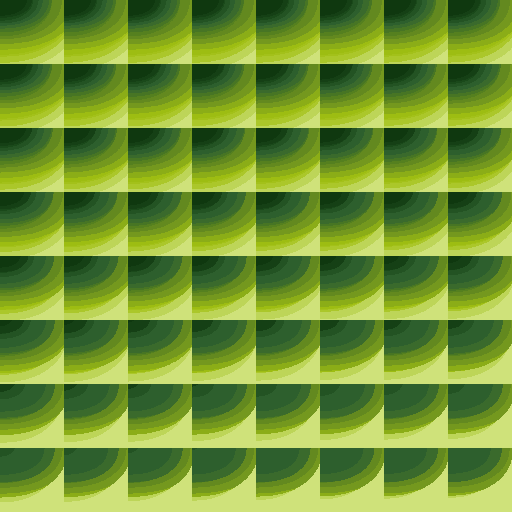
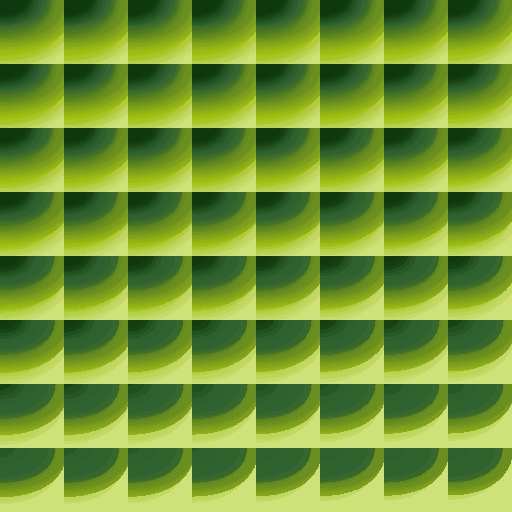
64-shade green palette and 3x LCD pixel density
Widen the palette from 16 to 64 Game Boy greens and triple the dot grid so the
LCD reads finer and smoother, still snapping to the menu's pea-green ramp.

- tools/gen_menu_palette_lut.py: COLORS 16 -> 64. The eight gb_ui.gd green
  tokens are resampled in Oklab to 64 shades (dark -> light), a near-continuous
  monochrome ramp; endpoints stay exactly #0f380f and #cfe27a. Swatch relaid to
  four rows of sixteen.
- shaders/lut_512.png / palette_512.png: regenerated to the 64 greens.
- main.tscn: World SubViewport 360x360 -> 1080x1080, so grid_size=3 yields a
  360x360 dot grid (3x the old 120x120) while each dot keeps room for the hard
  lattice. On the console path the LCD texture scales into the glass rect, so
  this shows as finer dots at device resolution.
- scripts/gb_ui.gd: draw the interface in a 360-tall design space and scale the
  whole LCD up to the buffer (a clean 3x at 1080), so the HUD and menu stay
  proportional and crisp instead of shrinking to a third.
- scripts/player.gd: scale the crosshair, respawn hint and context prompt by the
  same buffer/design ratio.
- scripts/shell.gd: _fit_bare falls back to fit-to-view when the buffer is larger
  than the desktop/web window, so the 1080 LCD is shown whole instead of clipped.
- shaders/dither_lut.gdshader, README: comments updated for 64 greens and 1080.

Claude-Session: https://claude.ai/code/session_01Vpc8b1eE6bPeWcjygWgRUF

diff --git a/tools/gen_menu_palette_lut.py b/tools/gen_menu_palette_lut.py
@@ -5,8 +5,8 @@ Run from the project root:  python3 tools/gen_menu_palette_lut.py
 
 Overwrites:
   shaders/lut_512.png      the 64x64x64 cube the dither shader snaps through, so every colour in
-                           the frame maps to the nearest of the 16 menu greens.
-  shaders/palette_512.png  a documentation-only swatch of the 16 shades (nothing samples it).
+                           the frame maps to the nearest of the 64 menu greens.
+  shaders/palette_512.png  a documentation-only swatch of the 64 shades (nothing samples it).
 
 Why these greens: the LCD interface (scripts/gb_ui.gd) is hand-tokened in the classic DMG
 "pea-green" ramp -- INK #0f380f at the dark end up to the lit-capsule highlight #cfe27a. The world
@@ -16,10 +16,10 @@ palette straight from the eight distinct green design tokens in gb_ui.gd, so the
 the menu are finally one screen.
 
 The eight tokens are only a spine: we walk them in Oklab (perceptually even steps, not raw RGB) and
-resample to 16 shades, dark -> light. The endpoints land exactly on the menu's darkest and lightest
-greens; the ramp passes through every token in between. The heavy work -- nearest-colour mapping of
-the whole RGB cube in Oklab -- is reused from gen_palette_lut.build_lut; this file only supplies the
-16-colour palette.
+resample to 64 shades, dark -> light -- a near-continuous monochrome green ramp. The endpoints land
+exactly on the menu's darkest and lightest greens; the ramp passes through every token in between.
+The heavy work -- nearest-colour mapping of the whole RGB cube in Oklab -- is reused from
+gen_palette_lut.build_lut; this file only supplies the 64-colour palette.
 """
 import os
 import sys
@@ -44,7 +44,7 @@ MENU_GREENS = [
     "a8c520",
     "cfe27a",
 ]
-COLORS = 16
+COLORS = 64
 
 
 def hex_to_rgb(h):
@@ -82,12 +82,13 @@ def menu_palette(n=COLORS):
 
 def main():
     pal = menu_palette()
-    print("menu DMG green palette (%d shades):" % len(pal))
-    for c in pal:
-        print("  #%02x%02x%02x" % (int(c[0]), int(c[1]), int(c[2])))
+    print("menu DMG green palette (%d shades), dark -> light:" % len(pal))
+    for i in range(0, len(pal), 8):
+        print("  " + "  ".join("#%02x%02x%02x" % (int(c[0]), int(c[1]), int(c[2]))
+                               for c in pal[i:i + 8]))
 
-    # Doc-only swatch: each shade a 16x16 block, two rows of eight.
-    grid = pal.reshape(2, 8, 3)
+    # Doc-only swatch: each shade a 16x16 block, four rows of sixteen (dark -> light).
+    grid = pal.reshape(4, 16, 3)
     grid = np.repeat(np.repeat(grid, 16, axis=0), 16, axis=1)
     Image.fromarray(grid, "RGB").save("shaders/palette_512.png")
 

diff --git a/README.md b/README.md
@@ -374,33 +374,36 @@ nothing detectable (identical medians on every pass that has structures in view)
 
 ## The palette and dither
 
-The whole world is redrawn as an old dot-matrix LCD in the **same 16 Game Boy greens the
-menu is painted in**. `scripts/gb_ui.gd` tokens the LCD interface in the classic DMG
-"pea-green" ramp (`INK #0f380f` up to the lit highlight `#cfe27a`); the post-process snaps
-the world to that same ramp, so the dithered scene and the UI chrome are one screen rather
-than two different greens.
+The whole world is redrawn as an old dot-matrix LCD in the **same Game Boy greens the menu
+is painted in**. `scripts/gb_ui.gd` tokens the LCD interface in the classic DMG "pea-green"
+ramp (`INK #0f380f` up to the lit highlight `#cfe27a`); the post-process snaps the world to
+that same ramp, so the dithered scene and the UI chrome are one screen rather than two
+different greens.
 
 `tools/gen_menu_palette_lut.py` bakes both committed PNGs in `shaders/` from those eight
-design tokens — rerun it after changing the menu greens:
+design tokens — rerun it after changing the menu greens (`COLORS` at the top sets the shade
+count):
 
     python3 tools/gen_menu_palette_lut.py     # needs numpy + pillow
 
-- **`palette_512.png`** — the 16 shades as a reference swatch, nothing samples it.
+- **`palette_512.png`** — the 64 shades as a reference swatch, nothing samples it.
 - **`lut_512.png`** — the lookup table the shader actually samples: a 64×64×64 RGB cube
   flattened to an 8×8 grid of blue slices, each cell pre-solved (in Oklab) to the nearest
-  of the 16 greens. This turns a 16-way search into one texture fetch.
+  of the 64 greens. This turns a 64-way search into one texture fetch.
 
 The eight tokens are only a spine: the tool walks them in Oklab (perceptually even steps,
-not raw RGB) and resamples to 16 shades, dark → light, so the endpoints land exactly on the
-menu's darkest and lightest greens and the ramp passes through every token between. It reuses
-`gen_palette_lut.py`'s `build_lut` (the Oklab nearest-colour engine); that older script and
-its 512-colour retro palette are kept only as that shared engine.
+not raw RGB) and resamples to 64 shades, dark → light — a near-continuous monochrome green
+ramp — so the endpoints land exactly on the menu's darkest and lightest greens and the ramp
+passes through every token between. It reuses `gen_palette_lut.py`'s `build_lut` (the Oklab
+nearest-colour engine); that older script and its 512-colour retro palette are kept only as
+that shared engine.
 
 `shaders/dither_lut.gdshader` does three things, in order:
 
-- **Pseudo pixels.** The native buffer is diced into a hard grid of `grid_size × grid_size`
-  cells (default 3). Each cell samples the world once, at its centre, so a whole cell carries
-  one colour — the chunky LCD dot, independent of how far the buffer is upscaled afterward.
+- **Pseudo pixels.** The world SubViewport renders at 1080×1080 and the buffer is diced into a
+  hard grid of `grid_size × grid_size` cells (default 3, a 360×360 dot grid). Each cell samples
+  the world once, at its centre, so a whole cell carries one colour — the LCD dot, independent
+  of how far the buffer is scaled into the console glass afterward.
 - **Ordered dither + palette snap.** Each cell is nudged by a 4×4 Bayer threshold keyed to the
   cell (not the native pixel, so the pattern lives at dot resolution) and snapped through the
   LUT. The offset is what breaks quantisation into a pattern instead of flat banding; being